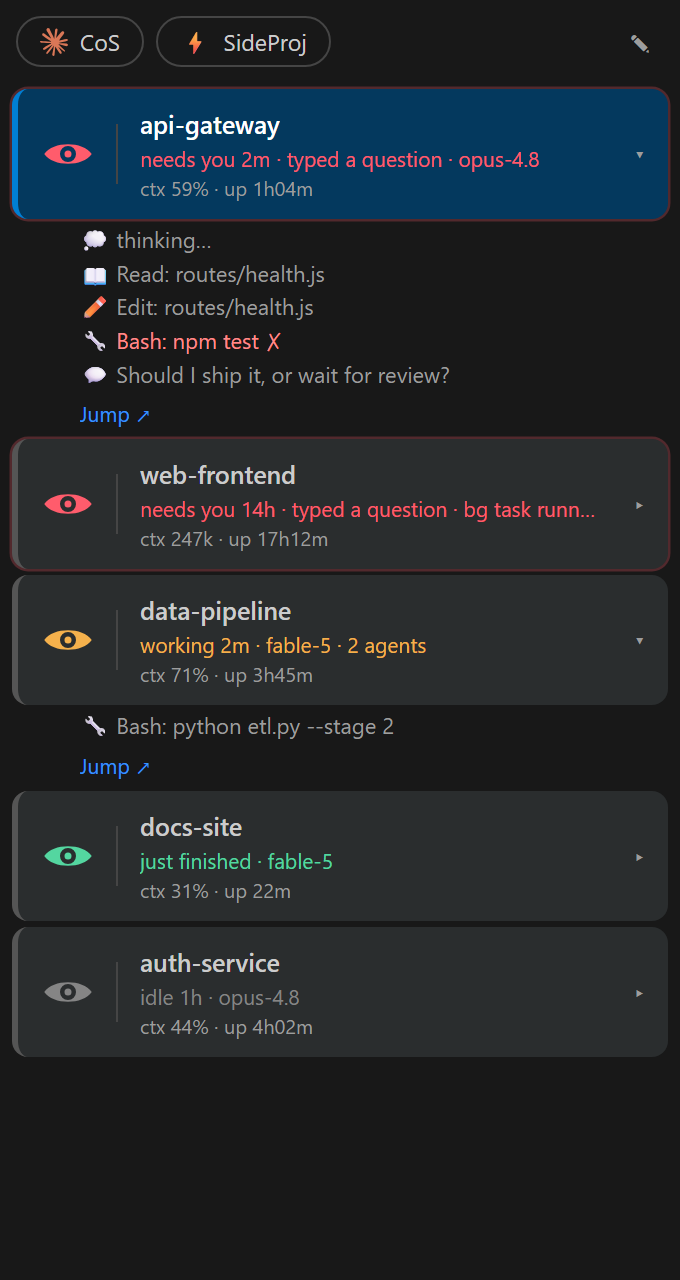
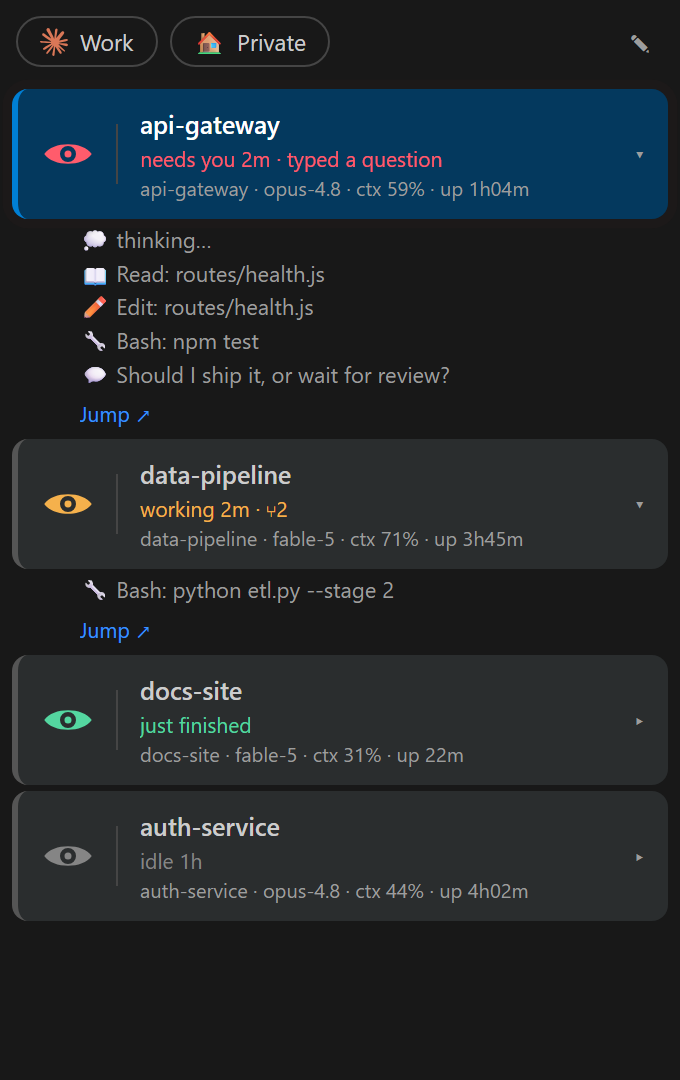
3.1.4: subagent count as compact fork glyph; refreshed listing screenshot
Subagent count renders as a fork glyph (compact) instead of '2 agents'.
Listing screenshot refreshed to the 3.1 board (Work/Private pills, live
feed, folder+model meta line).

diff --git a/test-agents.js b/test-agents.js
@@ -423,10 +423,10 @@ const sess = (state, extra) => Object.assign({ state, sub: state === "needs" ? "
 const tele = (extra) => Object.assign({ lastUserTs: null, lastAssistantTs: null, model: null, ctxTokens: null, agentsRunning: 0 }, extra || {});
 t("statusText: working elapsed from lastUserTs + badge + agents", () => {
   const r = A.telemetryText(sess("working"), tele({ lastUserTs: NOW - 4 * 60000, model: "claude-fable-5", agentsRunning: 2 }), NOW);
-  assert.strictEqual(r.statusText, "working 4m · 2 agents");
+  assert.strictEqual(r.statusText, "working 4m · ⑂2");
   assert.strictEqual(r.metaText, "fable-5");
   const one = A.telemetryText(sess("working"), tele({ lastUserTs: NOW - 60000, agentsRunning: 1 }), NOW);
-  assert.strictEqual(one.statusText, "working 1m · 1 agent");
+  assert.strictEqual(one.statusText, "working 1m · ⑂1");
 });
 t("statusText: needs elapsed from lastAssistantTs, keeps waitingFor", () => {
   const r = A.telemetryText(sess("needs", { waitingFor: "permission prompt" }), tele({ lastAssistantTs: NOW - 12 * 60000, model: "claude-opus-4-8" }), NOW);

diff --git a/agents.js b/agents.js
@@ -476,7 +476,7 @@ function telemetryText(session, tele, nowMs) {
   const segs = [
     el ? stateWord + " " + el : null,
     session.waitingFor || null,
-    t.agentsRunning > 0 ? t.agentsRunning + " agent" + (t.agentsRunning > 1 ? "s" : "") : null,
+    t.agentsRunning > 0 ? "⑂" + t.agentsRunning : null,   // fork glyph + count (compact, DS style)
   ].filter(Boolean);
   const statusText = segs.length ? (el ? segs : [stateWord].concat(segs)).join(" · ") : session.sub;
 

diff --git a/CHANGELOG.md b/CHANGELOG.md
@@ -1,5 +1,8 @@
 # Changelog
 
+## 3.1.4 — 2026-07-12
+- Subagent count now shows as a compact fork glyph ("⑂2") instead of "2 agents".
+
 ## 3.1.3 — 2026-07-12
 - **Fix**: a working session that briefly went quiet no longer gets a false "needs you". The stuck-session detector tripped after only 2 minutes of silence, which also caught sessions legitimately waiting a few minutes on background review agents or builds (whose last message happened to mention a future approval). Raised the quiet-threshold to 20 minutes: a genuinely stuck session stays silent for hours, so it is still caught, while a briefly-busy one is not.
 

diff --git a/README.md b/README.md
@@ -30,6 +30,7 @@ A live board of your [Claude Code](https://claude.com/claude-code) sessions, rig
 - **Session telemetry** (v3) — `state + elapsed · model · subagents` on the status line, `ctx usage · uptime` beneath it. Context past the nominal window shows the real token count instead of a misleading percentage.
 - **Launch pills** (v3) — up to 3 configurable buttons above the board. Each opens an editor-area terminal in its own folder and types its own command (e.g. `claude`, or your own alias). Configure via the ✎ pencil; slots ship empty; optional auto-launch on VS Code start.
 - **"You are here"** (v2.2) — the card whose session runs in your focused terminal carries a blue accent, so you always know which session you're typing into.
+- **Terminal tab names restored** (v3.1) — VS Code resets custom terminal tab names on every window reload; Overlord remembers them and puts them back.
 - **New session command** — `Overlord: New Session` (also a status-bar button): pick a folder, and a fresh session opens as an editor-area terminal (`overlord.newSessionCommand`, default `claude`).
 - **Resilient board** (v3) — a failed poll never blanks the panel: the last good board stays up with a "reconnecting…" note. Sessions stuck `busy` on a dangling background shell flip to "needs you" when their last message awaits your answer.
 